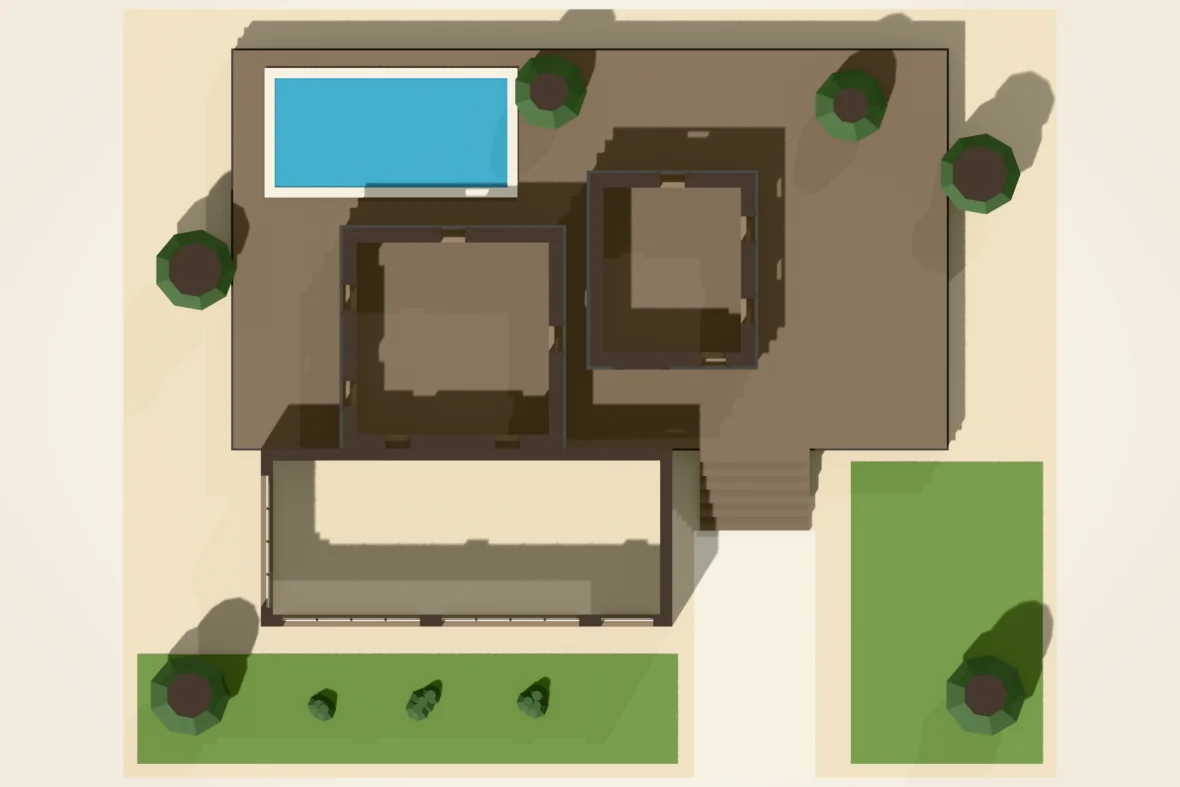
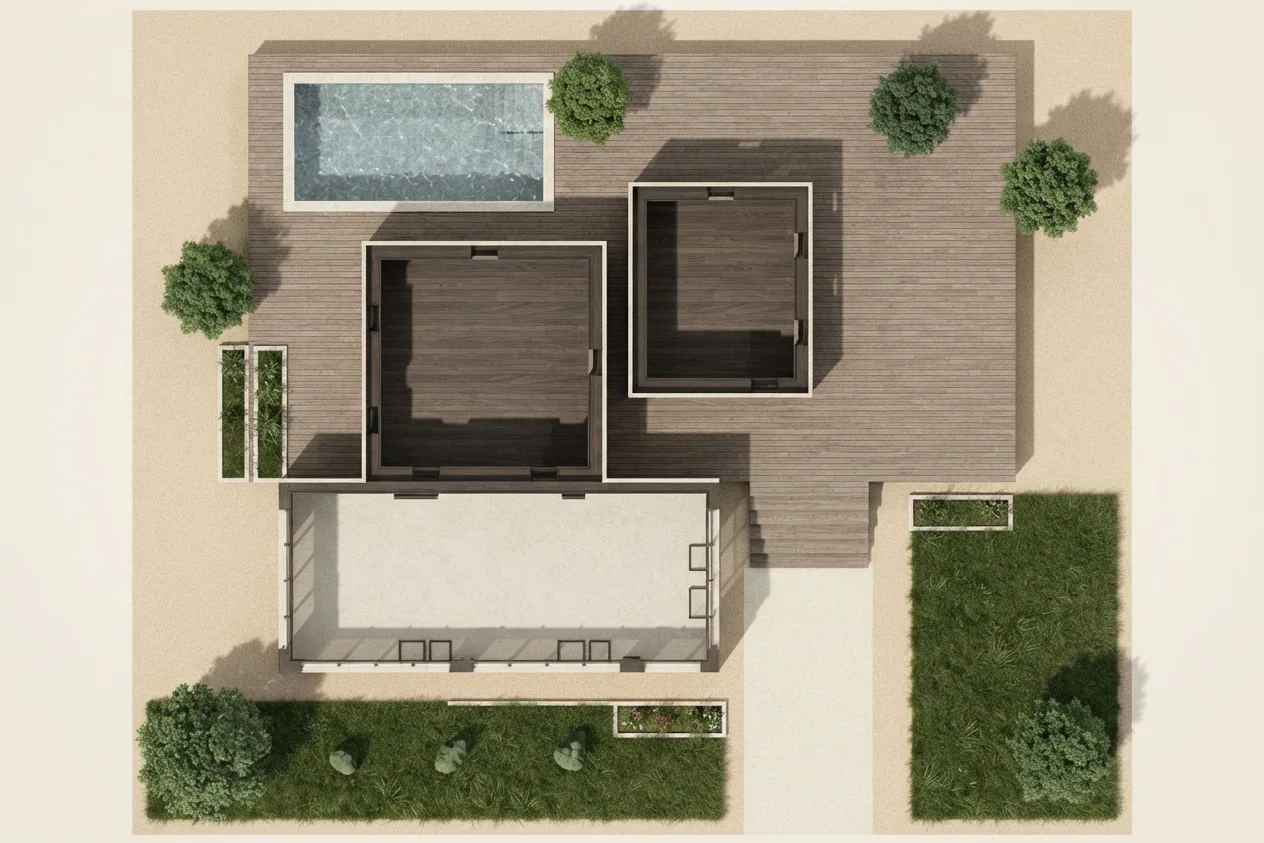
comressed img and deleted large ones

diff --git a/src/data/styles/najdi.ts b/src/data/styles/najdi.ts
@@ -14,7 +14,6 @@ export const najdi: Empire = {
     "A contemporary courtyard villa that carries the language of Najd's mud-brick towns — triangular furjat, stepped shurfat and a projecting tarma — into deep-set glazing and thermal-mass walls built for the Riyadh sun.",
   modelPath: "/models/najdi.glb",
   ultraHero: "/img/najdi/ultra-hero.jpg",
-  hero: "/img/najdi/hero.jpg",
   tint: "#c49a6c",
   camera: { azimuth: -34, elevation: 26, dist: 1.0, targetY: 0.28 },
   facts: [
@@ -86,7 +85,7 @@ export const najdi: Empire = {
     title: "Inside the Hosh",
     cta: "Step into the Court",
     text: "From the court the villa turns transparent: full-height glazing to the living wing, a slatted pergola, palms and a shallow reflecting pool — all enclosed by the same thick earthen walls that shut out the street.",
-    image: "/img/najdi/interior.jpg",
+    image: "/img/najdi/interior.webp",
   },
   floorPlan: {
     kicker: "Floor Plan",
@@ -110,7 +109,7 @@ export const najdi: Empire = {
     title: "The Najdi Vocabulary",
     cta: "Explore Motifs",
     text: "Deep relief and simple geometry: the Najdi motifs are made of shadow as much as of material, so they read clearly under a hard desert sun.",
-    image: "/img/najdi/artifacts.jpg",
+    image: "/img/najdi/artifacts.webp",
     items: [
       { name: "Furjat", purpose: "Venting and daylighting", material: "Carved into the parapet band", context: "Triangular openings released hot air from upper rooms and admitted glare-free light." },
       { name: "Shurfat", purpose: "Crowning the roofline", material: "Stepped earthen merlons", context: "A defensive memory turned decorative; the stepped triangle is Najd's most recognisable silhouette." },
@@ -125,7 +124,7 @@ export const najdi: Empire = {
     title: "Arriving from the Street",
     cta: "Walk the Approach",
     text: "The street face stays reserved — small slots above, deep glazed bays below — and the life of the house is drawn inward. Guests are received in the majlis by the door; the family lives around the court.",
-    image: "/img/najdi/daily-life.jpg",
+    image: "/img/najdi/daily-life.webp",
   },
   geography: {
     kicker: "Where It Belongs",

diff --git a/src/data/styles/hijazi.ts b/src/data/styles/hijazi.ts
@@ -14,7 +14,6 @@ export const hijazi: Empire = {
     "A three-storey villa in the spirit of Al-Balad, Jeddah: coral-stone walls coursed with timber tie-beams, stacked wooden rawashin screening the upper floors, lattice ventilation high in every wall and a roof terrace behind a latticed parapet.",
   modelPath: "/models/hijazi.glb",
   ultraHero: "/img/hijazi/ultra-hero.jpg",
-  hero: "/img/hijazi/hero.jpg",
   tint: "#b8905e",
   camera: { azimuth: -32, elevation: 20, dist: 1.0, targetY: 0.36 },
   facts: [
@@ -84,7 +83,7 @@ export const hijazi: Empire = {
     title: "The Rear Garden",
     cta: "Step into the Garden",
     text: "Behind the house, a garden with a long pool and a lattice pergola opens to the glazed ground floor; the rawashin on the side walls watch over it.",
-    image: "/img/hijazi/interior.jpg",
+    image: "/img/hijazi/interior.webp",
   },
   floorPlan: {
     kicker: "Floor Plan",
@@ -107,7 +106,7 @@ export const hijazi: Empire = {
     title: "The Hijazi Vocabulary",
     cta: "Explore Motifs",
     text: "A house built for sea breeze and privacy: timber screens, pale coral stone and openings everywhere the air can move.",
-    image: "/img/hijazi/artifacts.jpg",
+    image: "/img/hijazi/artifacts.webp",
     items: [
       { name: "Roshan", purpose: "Breeze, shade and privacy", material: "Timber bay with lattice", context: "The defining element of Jeddah's old houses, often imported teak, carved and painted." },
       { name: "Mashrabiya Lattice", purpose: "Filtered light and air", material: "Turned or crossed timber slats", context: "A fine grid that hides the interior while letting the wind through." },
@@ -122,7 +121,7 @@ export const hijazi: Empire = {
     title: "The Street Front",
     cta: "Walk the Approach",
     text: "From the lane, the house rises in three coral-stone storeys, its rawashin reaching out over the street. The family looks out from behind the lattice; guests enter through the carved door below.",
-    image: "/img/hijazi/daily-life.jpg",
+    image: "/img/hijazi/daily-life.webp",
   },
   geography: {
     kicker: "Where It Belongs",

diff --git a/src/data/styles/salmani.ts b/src/data/styles/salmani.ts
@@ -13,7 +13,6 @@ export const salmani: Empire = {
   description:
     "A contemporary Riyadh villa in the Salmani idiom: Najdi proportions and triangle motifs redrawn with cleaner geometry, a modular limestone facade cut by deep vertical shadow lines, and a cantilevered upper floor floating over a glazed ground level.",
   modelPath: "/models/salmani.glb",
-  hero: "/img/salmani/hero.jpg",
   tint: "#d2bb92",
   camera: { azimuth: -30, elevation: 24, dist: 1.0, targetY: 0.3 },
   facts: [
@@ -80,7 +79,7 @@ export const salmani: Empire = {
     title: "The Pool Court",
     cta: "Step into the Court",
     text: "From the pool deck, the rear block is all glass behind a screen of stone fins; the long pool, deck and pergola make an outdoor room shaded by the house itself.",
-    image: "/img/salmani/interior.jpg",
+    image: "/img/salmani/interior.webp",
   },
   floorPlan: {
     kicker: "Floor Plan",
@@ -103,7 +102,7 @@ export const salmani: Empire = {
     title: "The Salmani Vocabulary",
     cta: "Explore Motifs",
     text: "Heritage in the proportions, modernity in the detailing: every Salmani motif is a Najdi idea made simpler, larger and more precise.",
-    image: "/img/salmani/artifacts.jpg",
+    image: "/img/salmani/artifacts.webp",
     items: [
       { name: "Shadow Slots", purpose: "Glare-free daylight", material: "Deep reveals in limestone", context: "Narrow openings deep in thick walls — the Najdi window logic at modern scale." },
       { name: "Triangle Band", purpose: "Heritage signature", material: "Pierced stone relief", context: "A disciplined, repeated furjat pattern crowning each volume." },
@@ -118,7 +117,7 @@ export const salmani: Empire = {
     title: "Arriving at the Villa",
     cta: "Walk the Approach",
     text: "From the street the house is calm and monolithic: a long stone volume, a tall entry tower and the glow of the glazed ground floor. Family life opens toward the pool at the back.",
-    image: "/img/salmani/daily-life.jpg",
+    image: "/img/salmani/daily-life.webp",
   },
   geography: {
     kicker: "Where It Belongs",

diff --git a/src/data/styles/asiri.ts b/src/data/styles/asiri.ts
@@ -14,7 +14,6 @@ export const asiri: Empire = {
     "A villa of stepped stone towers on a terraced plinth, as in the mountain villages of Asir: slate rain courses ribbing every wall, white-framed windows crowned with qamariya lights, and bands of Al-Qatt Al-Asiri geometry painted in red, yellow, green and blue.",
   modelPath: "/models/asiri.glb",
   ultraHero: "/img/asiri/ultra-hero.jpg",
-  hero: "/img/asiri/hero.jpg",
   tint: "#a66a4c",
   camera: { azimuth: -32, elevation: 20, dist: 1.0, targetY: 0.36 },
   facts: [
@@ -124,7 +123,7 @@ export const asiri: Empire = {
     title: "The Asiri Vocabulary",
     cta: "Explore Motifs",
     text: "Stone, slate and paint: the Asiri house is the most colourful of the Saudi traditions, and its colour is always geometric.",
-    image: "/img/asiri/artifacts.jpg",
+    image: "/img/asiri/artifacts.webp",
     items: [
       { name: "Al-Qatt Painting", purpose: "Decoration and identity", material: "Mineral pigments on lime", context: "Women painted interiors and facades with triangle and band patterns; UNESCO-listed in 2017." },
       { name: "Slate Courses", purpose: "Shedding rain", material: "Thin slate slabs", context: "Projecting slabs protect stone and mud walls from the highland rains." },
@@ -139,7 +138,7 @@ export const asiri: Empire = {
     title: "Climbing to the Terrace",
     cta: "Walk the Approach",
     text: "A stair climbs from the lawn to the stone terrace, where the towers' painted door opens. The glazed wing below is for everyday living; the towers hold the bedrooms and the views.",
-    image: "/img/asiri/daily-life.jpg",
+    image: "/img/asiri/daily-life.webp",
   },
   geography: {
     kicker: "Where It Belongs",

diff --git a/src/data/styles/eastern.ts b/src/data/styles/eastern.ts
@@ -85,7 +85,7 @@ export const eastern: Empire = {
     title: "Inside the Court",
     cta: "Step into the Court",
     text: "Under the riwaq the light drops and the air moves: pointed arches frame the pool, the two-tone paving and the palms, with glazed rooms opening off every side.",
-    image: "/img/eastern/interior.jpg",
+    image: "/img/eastern/interior.webp",
   },
   floorPlan: {
     kicker: "Floor Plan",
@@ -109,7 +109,7 @@ export const eastern: Empire = {
     title: "The Eastern Coastal Vocabulary",
     cta: "Explore Motifs",
     text: "A trading coast's architecture: sea stone, gypsum from the sabkha, timber from across the ocean and every device for catching the breeze.",
-    image: "/img/eastern/artifacts.jpg",
+    image: "/img/eastern/artifacts.webp",
     items: [
       { name: "Coral Stone (Farush)", purpose: "Light, insulating walls", material: "Porous marine limestone", context: "Cut from the shallows and laid in gypsum mortar." },
       { name: "Gypsum Plaster (Juss)", purpose: "Smooth, cool surfaces", material: "Burnt gypsum", context: "Rendered and carved into screens, friezes and niches." },
@@ -124,7 +124,7 @@ export const eastern: Empire = {
     title: "Arriving from the Lane",
     cta: "Walk the Approach",
     text: "From the lane, the house is a long white wall: coral stone at its foot, carved screens and a row of beam ends above, the sea-blue door under its pointed hood, and the wind tower rising at one corner.",
-    image: "/img/eastern/daily-life.jpg",
+    image: "/img/eastern/daily-life.webp",
   },
   geography: {
     kicker: "Where It Belongs",

diff --git a/src/data/index.ts b/src/data/index.ts
@@ -20,7 +20,6 @@ const rebase = (e: Empire): Empire => ({
   ...e,
   modelPath: asset(e.modelPath),
   ultraHero: e.ultraHero ? asset(e.ultraHero) : undefined,
-  hero: e.hero ? asset(e.hero) : undefined,
   interior: { ...e.interior, image: asset(e.interior.image) },
   floorPlan: {
     ...e.floorPlan,
@@ -149,12 +148,10 @@ export function getLocalizedEmpire(empire: Empire, lang: Language): Empire {
 
 export const DEFAULT_EMPIRE_ID = "najdi";
 
-/** Resolve per-empire image paths (thumbnail derived from hero set).
- *  `hero` is the style's own render where one exists — it is already rebased
- *  by `rebase` — and otherwise the conventional flat massing render. */
+/** Resolve per-empire image paths (thumbnail derived from hero set) */
 export const empireImages = (e: Empire) => ({
   thumbnail: asset(`/img/${e.id}/thumbnail.webp`),
-  hero: e.hero ?? asset(`/img/${e.id}/hero.webp`),
+  hero: asset(`/img/${e.id}/hero.webp`),
   interior: e.interior.image,
   floorPlan: e.floorPlan.image,
   artifacts: e.artifacts.image,

diff --git a/src/types/empire.ts b/src/types/empire.ts
@@ -134,11 +134,9 @@ export interface Empire {
   description: string;
   modelPath: string;
   /** Photoreal exterior render, used where the villa is given a full-width
-   *  presentation. Optional: styles without one fall back to `hero`. */
+   *  presentation. Optional: styles without one fall back to the flat
+   *  massing render in `/img/<id>/hero.webp`. */
   ultraHero?: string;
-  /** Small-screen / fallback exterior render. Optional: styles without one
-   *  fall back to the flat massing render at `/img/<id>/hero.webp`. */
-  hero?: string;
   /** per-empire warm accent used for subtle scene tinting */
   tint: string;
   camera: CameraPreset;
